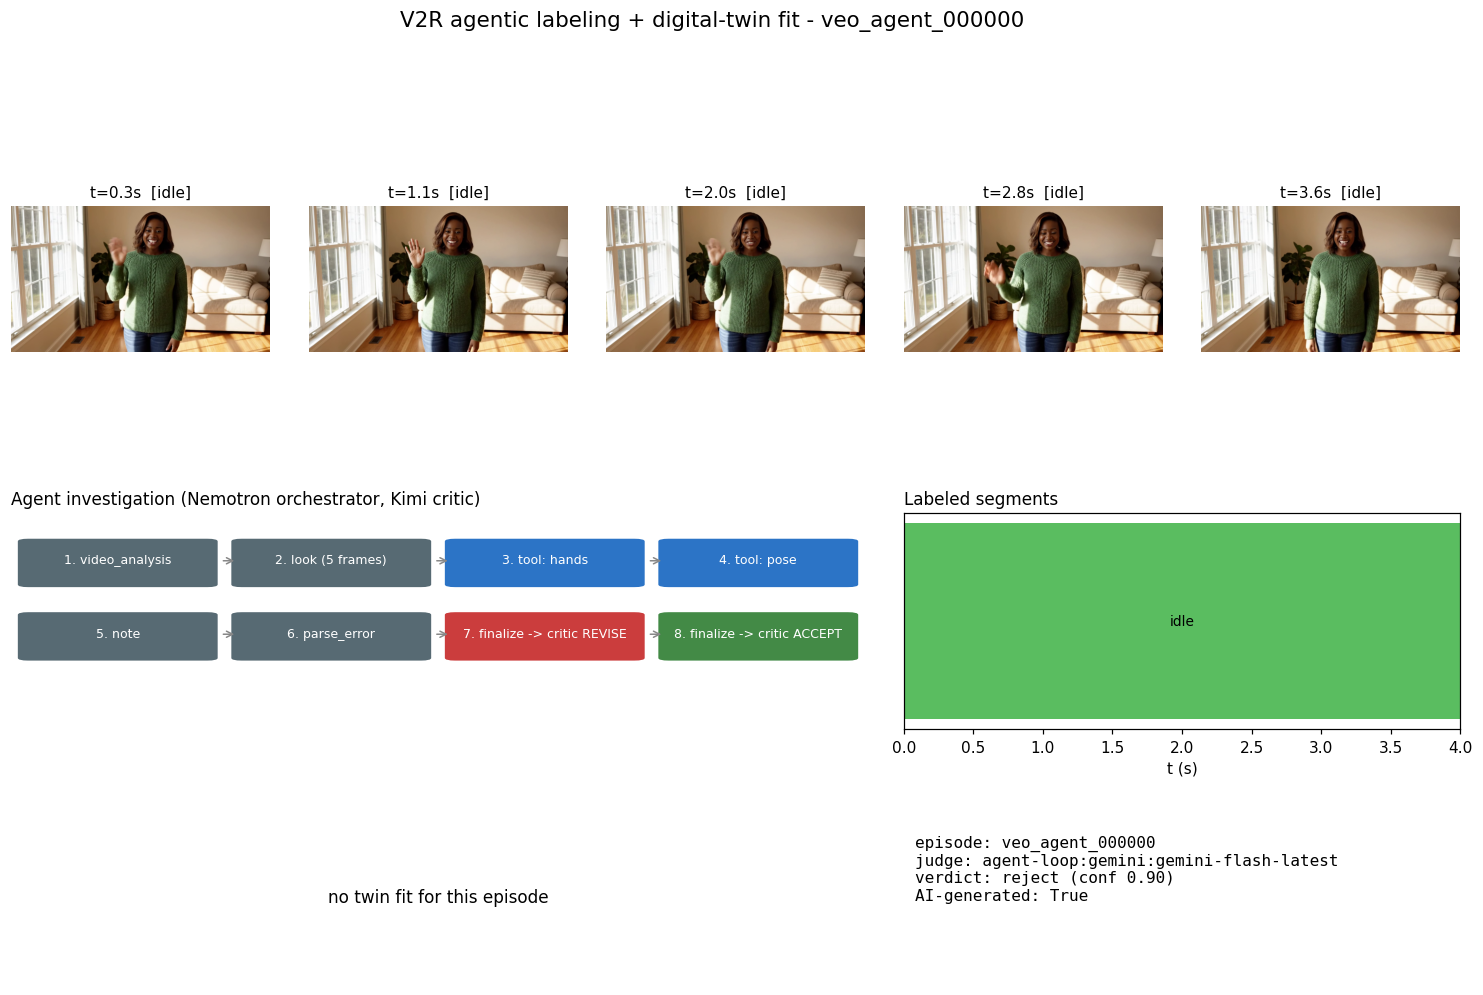
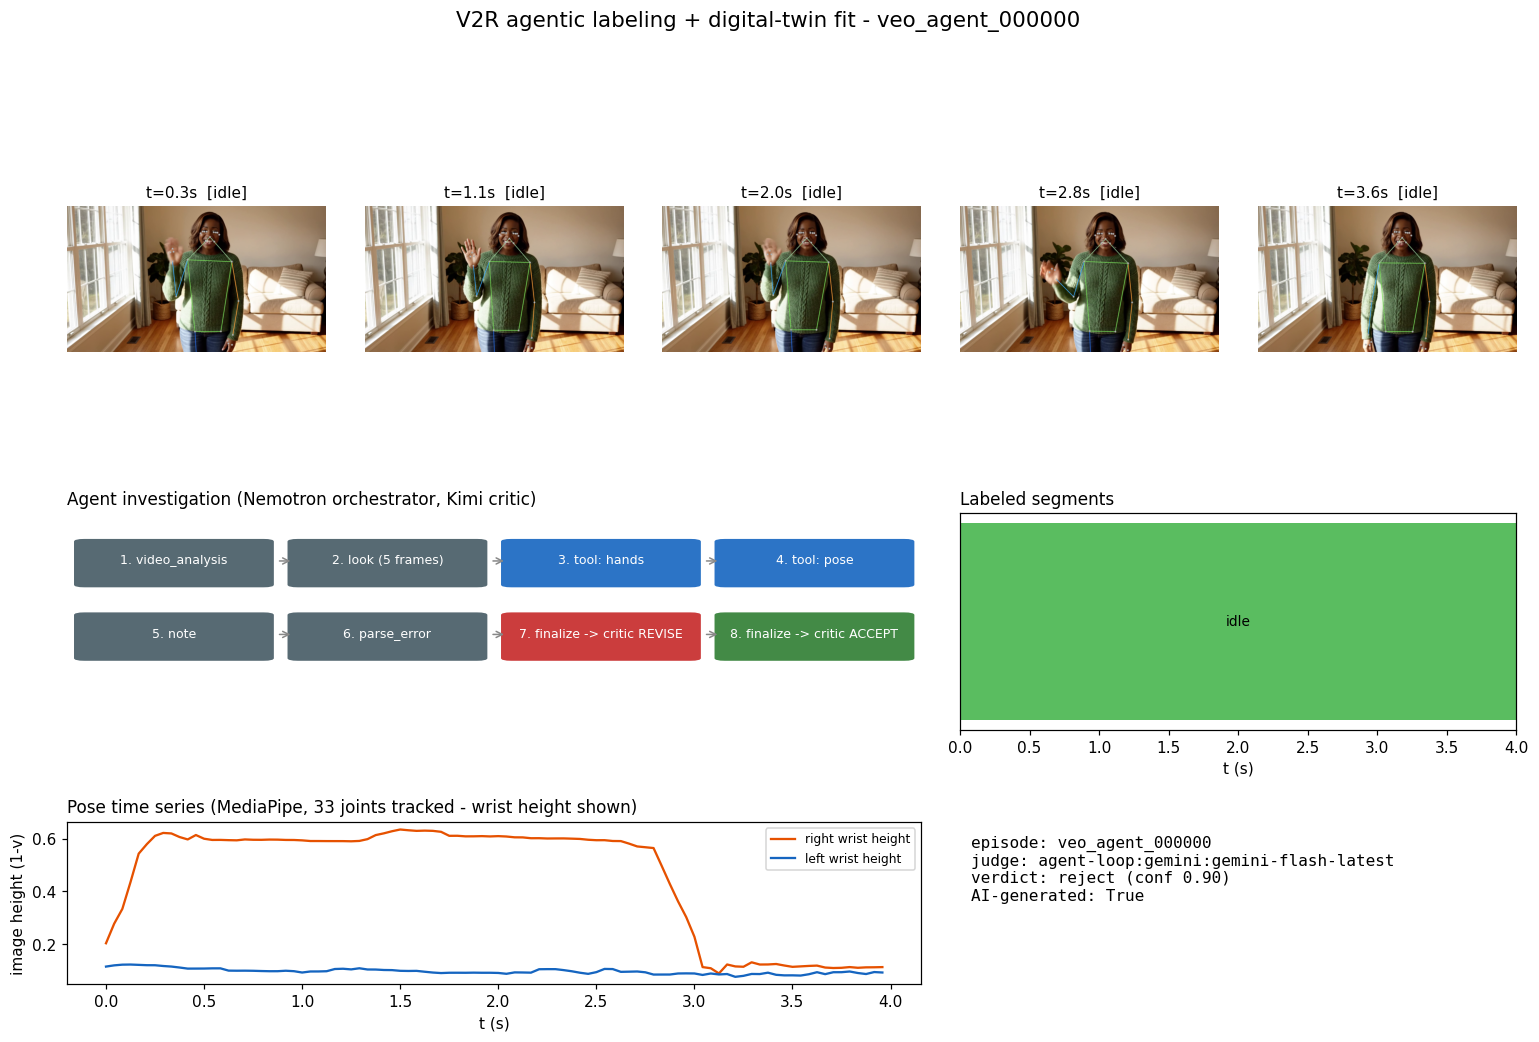
Demo renderer: human pose overlay + pose time-series panel
The Veo speech demo showed no skeleton: the renderer only knew the
SuperAnimal quadruped layout while the MediaPipe human pose time series
(33 joints x 96 frames) sat unrendered in the workspace. Now human
episodes draw the MediaPipe skeleton on video + keyframes, and the
storyboard's twin-fit panel becomes a pose time-series plot for humans
(wrist heights - the wave gesture is visible as the oscillation).
Footer states which tracker produced the keypoints.

diff --git a/v2r/scripts/render_label_demo.py b/v2r/scripts/render_label_demo.py
@@ -35,15 +35,36 @@ LEG_CHAINS = {
 SPINE = ["nose", "neck_base", "back_base", "back_middle", "back_end", "tail_base"]
 LEG_COLOR = {"FL": (60, 160, 255), "FR": (40, 90, 230), "RL": (255, 170, 60), "RR": (230, 110, 40)}
 SPINE_COLOR = (90, 220, 120)
+
+# MediaPipe human pose (33 landmarks): drawn when the episode tracked a human
+HUMAN_CHAINS = [
+    (["left_shoulder", "left_elbow", "left_wrist"], (60, 160, 255)),
+    (["right_shoulder", "right_elbow", "right_wrist"], (255, 170, 60)),
+    (["left_hip", "left_knee", "left_ankle"], (40, 90, 230)),
+    (["right_hip", "right_knee", "right_ankle"], (230, 110, 40)),
+    (["left_shoulder", "right_shoulder"], (90, 220, 120)),
+    (["left_hip", "right_hip"], (90, 220, 120)),
+    (["left_shoulder", "left_hip"], (90, 220, 120)),
+    (["right_shoulder", "right_hip"], (90, 220, 120)),
+    (["nose", "left_shoulder"], (150, 200, 150)),
+    (["nose", "right_shoulder"], (150, 200, 150)),
+]
 SEG_PALETTE = [(96, 189, 90), (222, 155, 67), (108, 128, 235), (90, 200, 220),
                (200, 100, 200), (120, 220, 160), (240, 120, 120)]
 
 
 def _load(ws: EpisodeWorkspace):
     kp = None
+    kp_kind = None
     kp_path = ws.root / "animal" / "keypoints_superanimal.parquet"
     if kp_path.is_file():
         kp = pd.read_parquet(kp_path)
+        kp_kind = "animal"
+    else:
+        hp = ws.human_dir / "pose2d3d_mediapipe.parquet"
+        if hp.is_file():
+            kp = pd.read_parquet(hp).rename(columns={"joint_name": "keypoint_name"})
+            kp_kind = "human"
     segments = []
     if ws.segments_json.is_file():
         segments = json.loads(ws.segments_json.read_text(encoding="utf-8"))["segments"]
@@ -66,7 +87,7 @@ def _load(ws: EpisodeWorkspace):
     fpath = ws.retarget_dir("go2") / "twin_fit_report.json"
     if fpath.is_file():
         fit = json.loads(fpath.read_text(encoding="utf-8"))
-    return kp, segments, transcript, report, twist, fit, utterances
+    return kp, kp_kind, segments, transcript, report, twist, fit, utterances
 
 
 def _kp_frames(kp: pd.DataFrame):
@@ -77,14 +98,16 @@ def _kp_frames(kp: pd.DataFrame):
     return out, np.array(sorted(out))
 
 
-def _draw_kp(frame, pts: dict, w: int, h: int):
+def _draw_kp(frame, pts: dict, w: int, h: int, kind: str = "animal"):
     def px(name):
         if name in pts and pts[name][2] > 0.3:
             u, v, _ = pts[name]
             return int(u * w), int(v * h)
         return None
 
-    for chain, color in [(SPINE, SPINE_COLOR)] + [(c, LEG_COLOR[l]) for l, c in LEG_CHAINS.items()]:
+    chains = (HUMAN_CHAINS if kind == "human"
+              else [(SPINE, SPINE_COLOR)] + [(c, LEG_COLOR[l]) for l, c in LEG_CHAINS.items()])
+    for chain, color in chains:
         prev = None
         for name in chain:
             p = px(name)
@@ -109,7 +132,8 @@ def _step_label(s: dict) -> str:
     return a
 
 
-def render_video(ws, out_mp4: Path, kp, segments, transcript, report, utterances=None):
+def render_video(ws, out_mp4: Path, kp, segments, transcript, report,
+                 utterances=None, kp_kind="animal"):
     cap = cv2.VideoCapture(str(ws.video_path))
     fps = cap.get(cv2.CAP_PROP_FPS) or 24
     W = int(cap.get(cv2.CAP_PROP_FRAME_WIDTH))
@@ -133,7 +157,7 @@ def render_video(ws, out_mp4: Path, kp, segments, transcript, report, utterances
         if len(kp_times):
             j = int(np.argmin(np.abs(kp_times - t)))
             if abs(kp_times[j] - t) < 0.2:
-                _draw_kp(frame, kp_lookup[kp_times[j]], W, H)
+                _draw_kp(frame, kp_lookup[kp_times[j]], W, H, kp_kind)
 
         # header
         cv2.rectangle(frame, (0, 0), (W, 34), (25, 25, 25), -1)
@@ -182,8 +206,10 @@ def render_video(ws, out_mp4: Path, kp, segments, transcript, report, utterances
                 break
         cv2.putText(canvas, f"t = {t:5.2f} s", (W - 150, H + 86),
                     cv2.FONT_HERSHEY_SIMPLEX, 0.6, (200, 200, 200), 1, cv2.LINE_AA)
+        kp_note = ("keypoints: MediaPipe Pose (33)" if kp_kind == "human"
+                   else "keypoints: SuperAnimal-Quadruped (39)")
         cv2.putText(canvas,
-                    "keypoints: SuperAnimal-Quadruped (39) | labels: Nemotron agent + Kimi critic | source: estimated",
+                    f"{kp_note} | labels: Nemotron agent + Kimi critic | source: estimated",
                     (10, H + 116), cv2.FONT_HERSHEY_SIMPLEX, 0.45, (150, 150, 150), 1, cv2.LINE_AA)
         vw.write(canvas)
         i += 1
@@ -191,7 +217,8 @@ def render_video(ws, out_mp4: Path, kp, segments, transcript, report, utterances
     vw.release()
 
 
-def render_storyboard(ws, out_png: Path, kp, segments, transcript, report, twist, fit):
+def render_storyboard(ws, out_png: Path, kp, segments, transcript, report, twist, fit,
+                      kp_kind="animal"):
     import matplotlib
     matplotlib.use("Agg")
     import matplotlib.pyplot as plt
@@ -218,7 +245,7 @@ def render_storyboard(ws, out_png: Path, kp, segments, transcript, report, twist
         if len(kp_times):
             j = int(np.argmin(np.abs(kp_times - t)))
             if abs(kp_times[j] - t) < 0.25:
-                _draw_kp(frame, kp_lookup[kp_times[j]], frame.shape[1], frame.shape[0])
+                _draw_kp(frame, kp_lookup[kp_times[j]], frame.shape[1], frame.shape[0], kp_kind)
         ax.imshow(cv2.cvtColor(frame, cv2.COLOR_BGR2RGB))
         seg = next((s for s in segments if s["start_s"] <= t <= s["end_s"]), None)
         ax.set_title(f"t={t:.1f}s  [{seg['skill'] if seg else '-'}]", fontsize=10)
@@ -268,9 +295,22 @@ def render_storyboard(ws, out_png: Path, kp, segments, transcript, report, twist
         ax.legend(fontsize=8, ncol=3)
         ax.set_title("Go2 command channel (cmd_twist) from the twin fit", fontsize=11, loc="left")
         ax.set_xlabel("t (s)")
+    elif kp_kind == "human" and kp is not None:
+        # human episode: show the analyzed pose time series (wrist heights -
+        # a wave gesture is literally visible as the oscillation)
+        for joint, color, lab in [("right_wrist", "#e65100", "right wrist"),
+                                  ("left_wrist", "#1565c0", "left wrist")]:
+            jd = kp[kp["keypoint_name"] == joint].sort_values("frame")
+            if len(jd):
+                ax.plot(jd["t"], 1.0 - jd["v"], "-", color=color, label=f"{lab} height")
+        ax.legend(fontsize=8)
+        ax.set_title("Pose time series (MediaPipe, 33 joints tracked - wrist height shown)",
+                     fontsize=11, loc="left")
+        ax.set_xlabel("t (s)")
+        ax.set_ylabel("image height (1-v)")
     else:
         ax.axis("off")
-        ax.text(0.5, 0.5, "no twin fit for this episode", ha="center", fontsize=11)
+        ax.text(0.5, 0.5, "no twin fit / pose series for this episode", ha="center", fontsize=11)
 
     ax = fig.add_subplot(gs[2, 3:])
     ax.axis("off")
@@ -302,9 +342,11 @@ def main():
     ws = EpisodeWorkspace(cfg.workspaces_root, episode)
     out_dir = cfg.root.parent / "demo" / "label_demo"
     out_dir.mkdir(parents=True, exist_ok=True)
-    kp, segments, transcript, report, twist, fit, utterances = _load(ws)
-    render_video(ws, out_dir / f"{name}.mp4", kp, segments, transcript, report, utterances)
-    render_storyboard(ws, out_dir / f"{name}.png", kp, segments, transcript, report, twist, fit)
+    kp, kp_kind, segments, transcript, report, twist, fit, utterances = _load(ws)
+    render_video(ws, out_dir / f"{name}.mp4", kp, segments, transcript, report,
+                 utterances, kp_kind)
+    render_storyboard(ws, out_dir / f"{name}.png", kp, segments, transcript, report,
+                      twist, fit, kp_kind)
     print("wrote", out_dir / f"{name}.mp4")
     print("wrote", out_dir / f"{name}.png")
 

diff --git a/v2r/LICENSE_AUDIT.md b/v2r/LICENSE_AUDIT.md
@@ -1,6 +1,6 @@
 # V2R License Audit
 
-Generated: 2026-07-05 06:34 UTC
+Generated: 2026-07-05 07:17 UTC
 **permissive_only**: `False`
 
 ## Third-party components